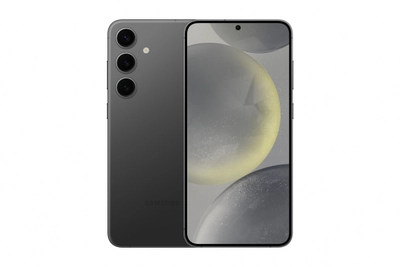
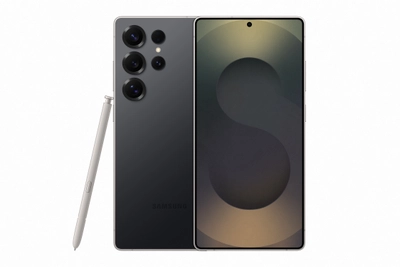
Add files via upload

diff --git a/index.html b/index.html
@@ -58,10 +58,10 @@
                 <button onclick="showMessage() ">SHTO NË SHPORT</button>
             </div>
 
-            <div class="product-card" data-name="Celular Samsung Galaxy S24+, 12GB/ 256GB, Onyx Black">
+            <div class="product-card" data-name="Celular Samsung Galaxy S25 Ultra, 6.9, 12GB/ 1TB, Titanium Black">
                 <img src="foto/2.webp" alt="Product 2">
-                <h3>Celular Samsung Galaxy S24+, 12GB/ 256GB, Onyx Black</h3>
-                <p>873.50 €</p>
+                <h3>Celular Samsung Galaxy S25 Ultra, 6.9", 12GB/ 1TB, Titanium Black</h3>
+                <p>1,843.50  €</p>
                 <button onclick="showMessage()">SHTO NË SHPORT</button>
             </div>
 
@@ -80,10 +80,10 @@
 
             </div>
 
-           <div class="product-card" data-name="Kartelë grafike MSI GeForce RTX 4090 VENTUS 3X 24G OC, 24GB GDDR6X">
+           <div class="product-card" data-name="Kartelë grafike Asus GeForce RTX 5090 32GB TUF Gaming">
                 <img src="foto/5.webp" alt="Product 5">
-                <h3>Kartelë grafike MSI GeForce RTX 4090 VENTUS 3X 24G OC, 24GB GDDR6X</h3>
-                <p>2,894.50 €</p>
+                <h3>Kartelë grafike Asus GeForce RTX 5090 32GB TUF Gaming</h3>
+                <p>2,594.50 €</p>
                 <button onclick="showMessage()">SHTO NË SHPORT</button>
             </div>
 
@@ -175,8 +175,7 @@
             <input type="number" id="cardExpiry" data-mask="00 / 00" placeholder="MM/YY" required>
 
             <label for="cardCVV"><img src="foto/padlock.png" alt="Mastercard Icon" style="width: 16px; "></i>CVV:</label>
-            <input type="number" id="cardCVV" data-mask="000" placeholder="CVV" required>
-
+            <input type="number" id="cardCVV" data-mask="000" maxlength="3" placeholder="CVV" required>
 
             <button type="submit" onclick="processPayment(event)">BLEJ TANI</button>
             <div class="container-Cards">

diff --git a/css2/style.css b/css2/style.css
@@ -22,7 +22,6 @@ header {
 }
 
 
-/* Opsionale: Përqendroni përmbajtjen poshtë imazhit */
 .content {
   text-align: center;
   padding: 20px;
@@ -39,7 +38,6 @@ header {
 
 
 
-/* Efekti i ndryshimit të ngjyrave të sfondit */
    @keyframes backgroundChange {
     0% { background-color: #D32F2F; } 
     50% { background-color: #a2c2e2; } 
@@ -97,8 +95,15 @@ header {
     .search-bar input[type="text"] {
         width: 100%; 
     }
-
 }
+
+@media (max-width:1536px) {}
+@media (max-width:1280px) {}
+@media (max-width:1024px) {}
+@media (max-width:768px) {}
+@media (max-width:640px) {}
+@media (max-width:475px) {}
+
 
 
 
@@ -146,6 +151,15 @@ main {
     gap: 20px;
     padding: 10px;
 }
+
+@media (max-width: 768px) {
+  .products {
+    display: grid;
+    grid-template-columns: repeat(2, 1fr); /* 2 produkte për rresht */
+    gap: 10px; /* Hapësira mes produkteve */
+  }
+}
+
 
 /* Stilizimi per Product Card */
 .product-card {
@@ -224,7 +238,6 @@ main {
     width: 90%;
     max-width: 400px;
 }
-
 
 
 .close-button {
